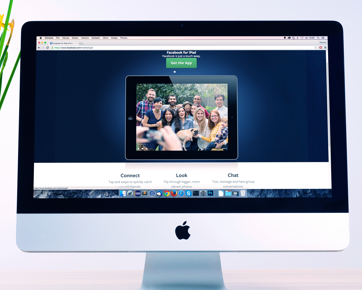
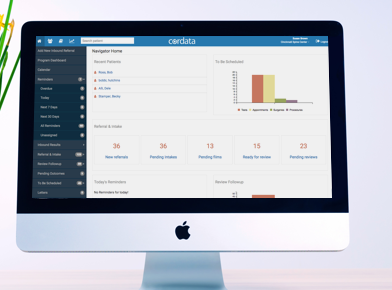
add portfolio pics

diff --git a/_site/routes/prevail.html b/_site/routes/prevail.html
@@ -16,43 +16,32 @@
         </a>
       </div>
     </div>
-      <div class="row">
-        <div class="col s12">
-          <h3 class="underline">Prevail</h3>
-        </div>
-      </div>
-    </div>
-    <div class="row center">
-      <div  class="col s12 center">
-        <img src="img/prevail-big-show.jpg" width="60%" >
-      </div>
-    </div>
-    <div class="row background-gray">
+    <div class="row">
       <div class="col s12">
-        <p>Top Gun Sales Performance, a company that offers sales training to companies was looking for a way to take their business online. The solution was to create a
-          learning based platform of their learning resorces. Users have the cababilty to comment back and forth with their sales managers.  </p>
+        <h3>Prevail</h3>
       </div>
     </div>
     <div class="row">
-      <div class="col s12 m6">
-        <img class="activator" src="img/index-card.jpg" alt="card-view" width="95%">
-      </div>
-      <div class="col s12 m6">
-        <img class="activator" src="img/index-table.jpg" alt="table-view" width="95%">
+      <div class="col s12">
+        sdfsdfsdf
       </div>
     </div>
     <div class="row">
-      <div class="col s12 m6">
-        <img class="activator" src="img/positionguide.jpg" alt="position-builder" width="95%">
-      </div>
-      <div class="col s12 m6">
-        <img class="activator" src="img/prevail-indextable.jpg" alt="table-view" width="95%">
+      <div class="col s12">
+        <img src="img/cordata-intake.png" width="100%">
       </div>
     </div>
-    <div class="row background-gray">
+    <div class="row">
       <div class="col s12">
-        <p> Ideation/ Design/ Development  </p>
-      </div>
+      <p> sdfsdfsdf</p>
+    </div>
+  </div>
+  <div class="row">
+    <div class="col s6">
+      <img src="img/cordata-test.png" width="100%">
+    </div>
+    <div class="col s6">
+      <img src="img/cordata-review.png" width="100%">
     </div>
   </div>
 </div>

diff --git a/_site/routes/cordata.html b/_site/routes/cordata.html
@@ -18,8 +18,30 @@
     </div>
     <div class="row">
       <div class="col s12">
-        <h3 class="underline">Cordata</h3>
+        <h3>Cordata</h3>
       </div>
+    </div>
+    <div class="row">
+      <div class="col s12">
+        sdfsdfsdf
+      </div>
+    </div>
+    <div class="row">
+      <div class="col s12">
+        <img src="img/cordata-intake.png" width="100%">
+      </div>
+    </div>
+    <div class="row">
+      <div class="col s12">
+      <p> sdfsdfsdf</p>
+    </div>
+  </div>
+  <div class="row">
+    <div class="col s6">
+      <img src="img/cordata-test.png" width="100%">
+    </div>
+    <div class="col s6">
+      <img src="img/cordata-review.png" width="100%">
     </div>
   </div>
 </div>
